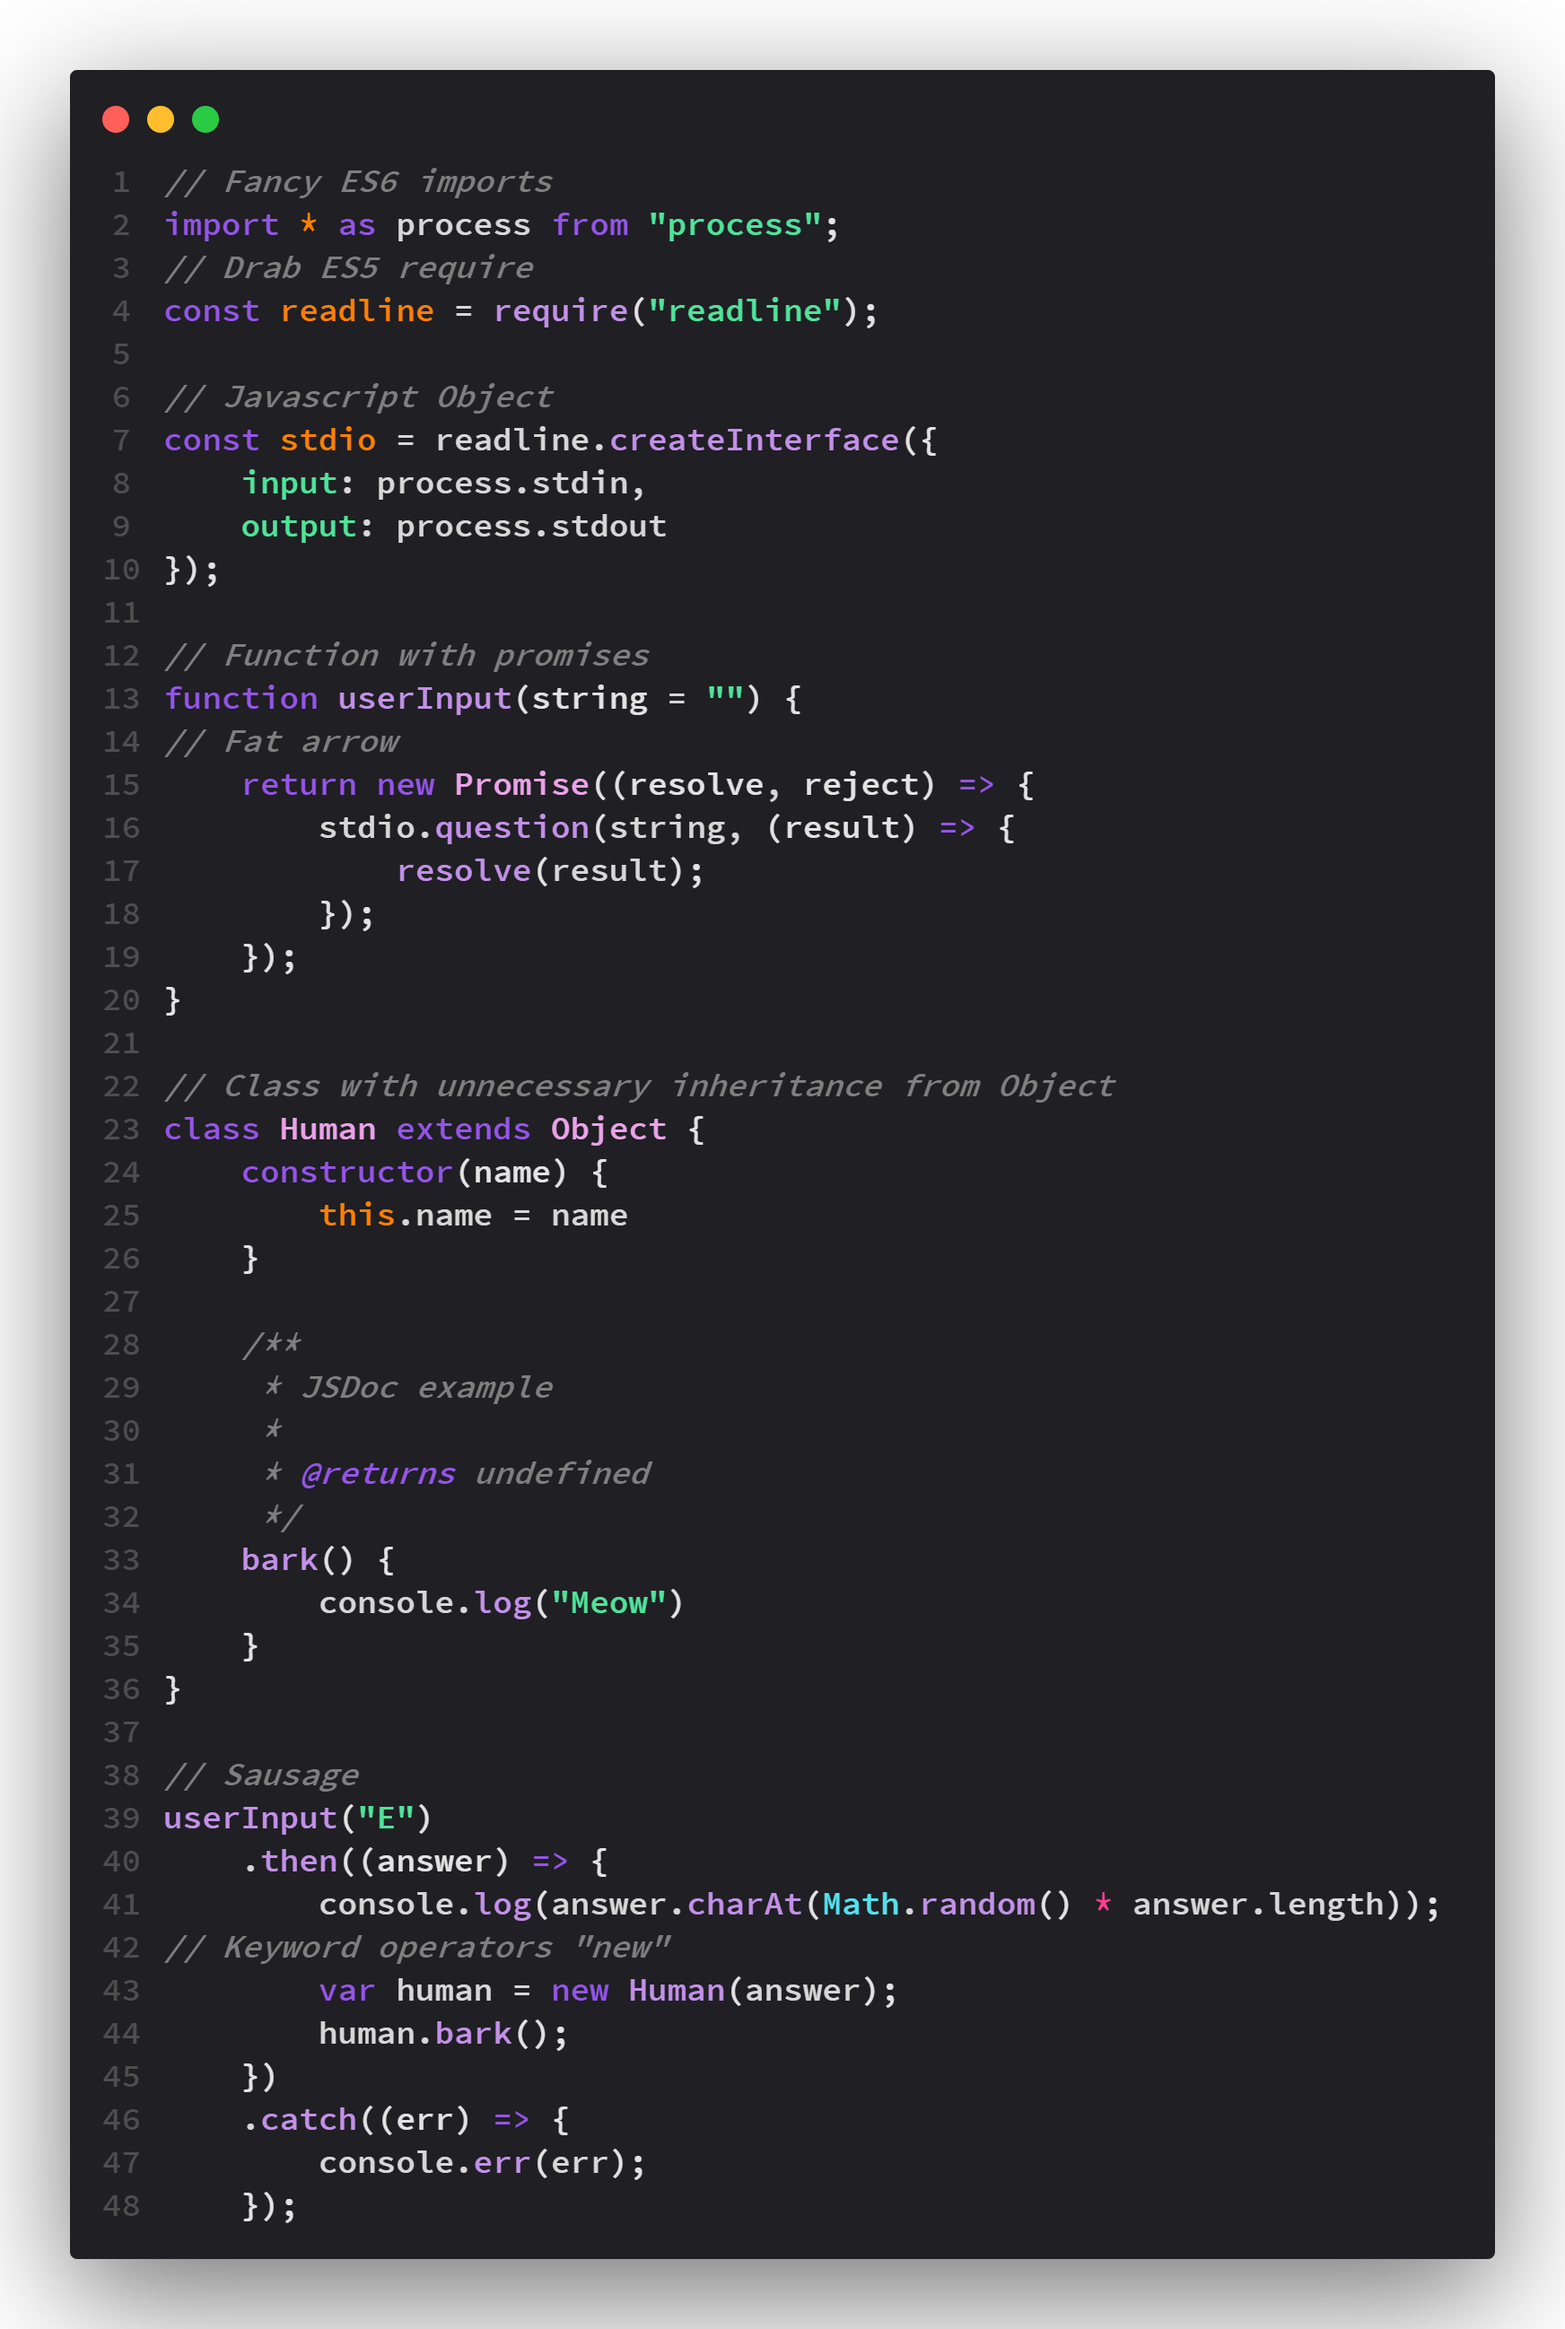
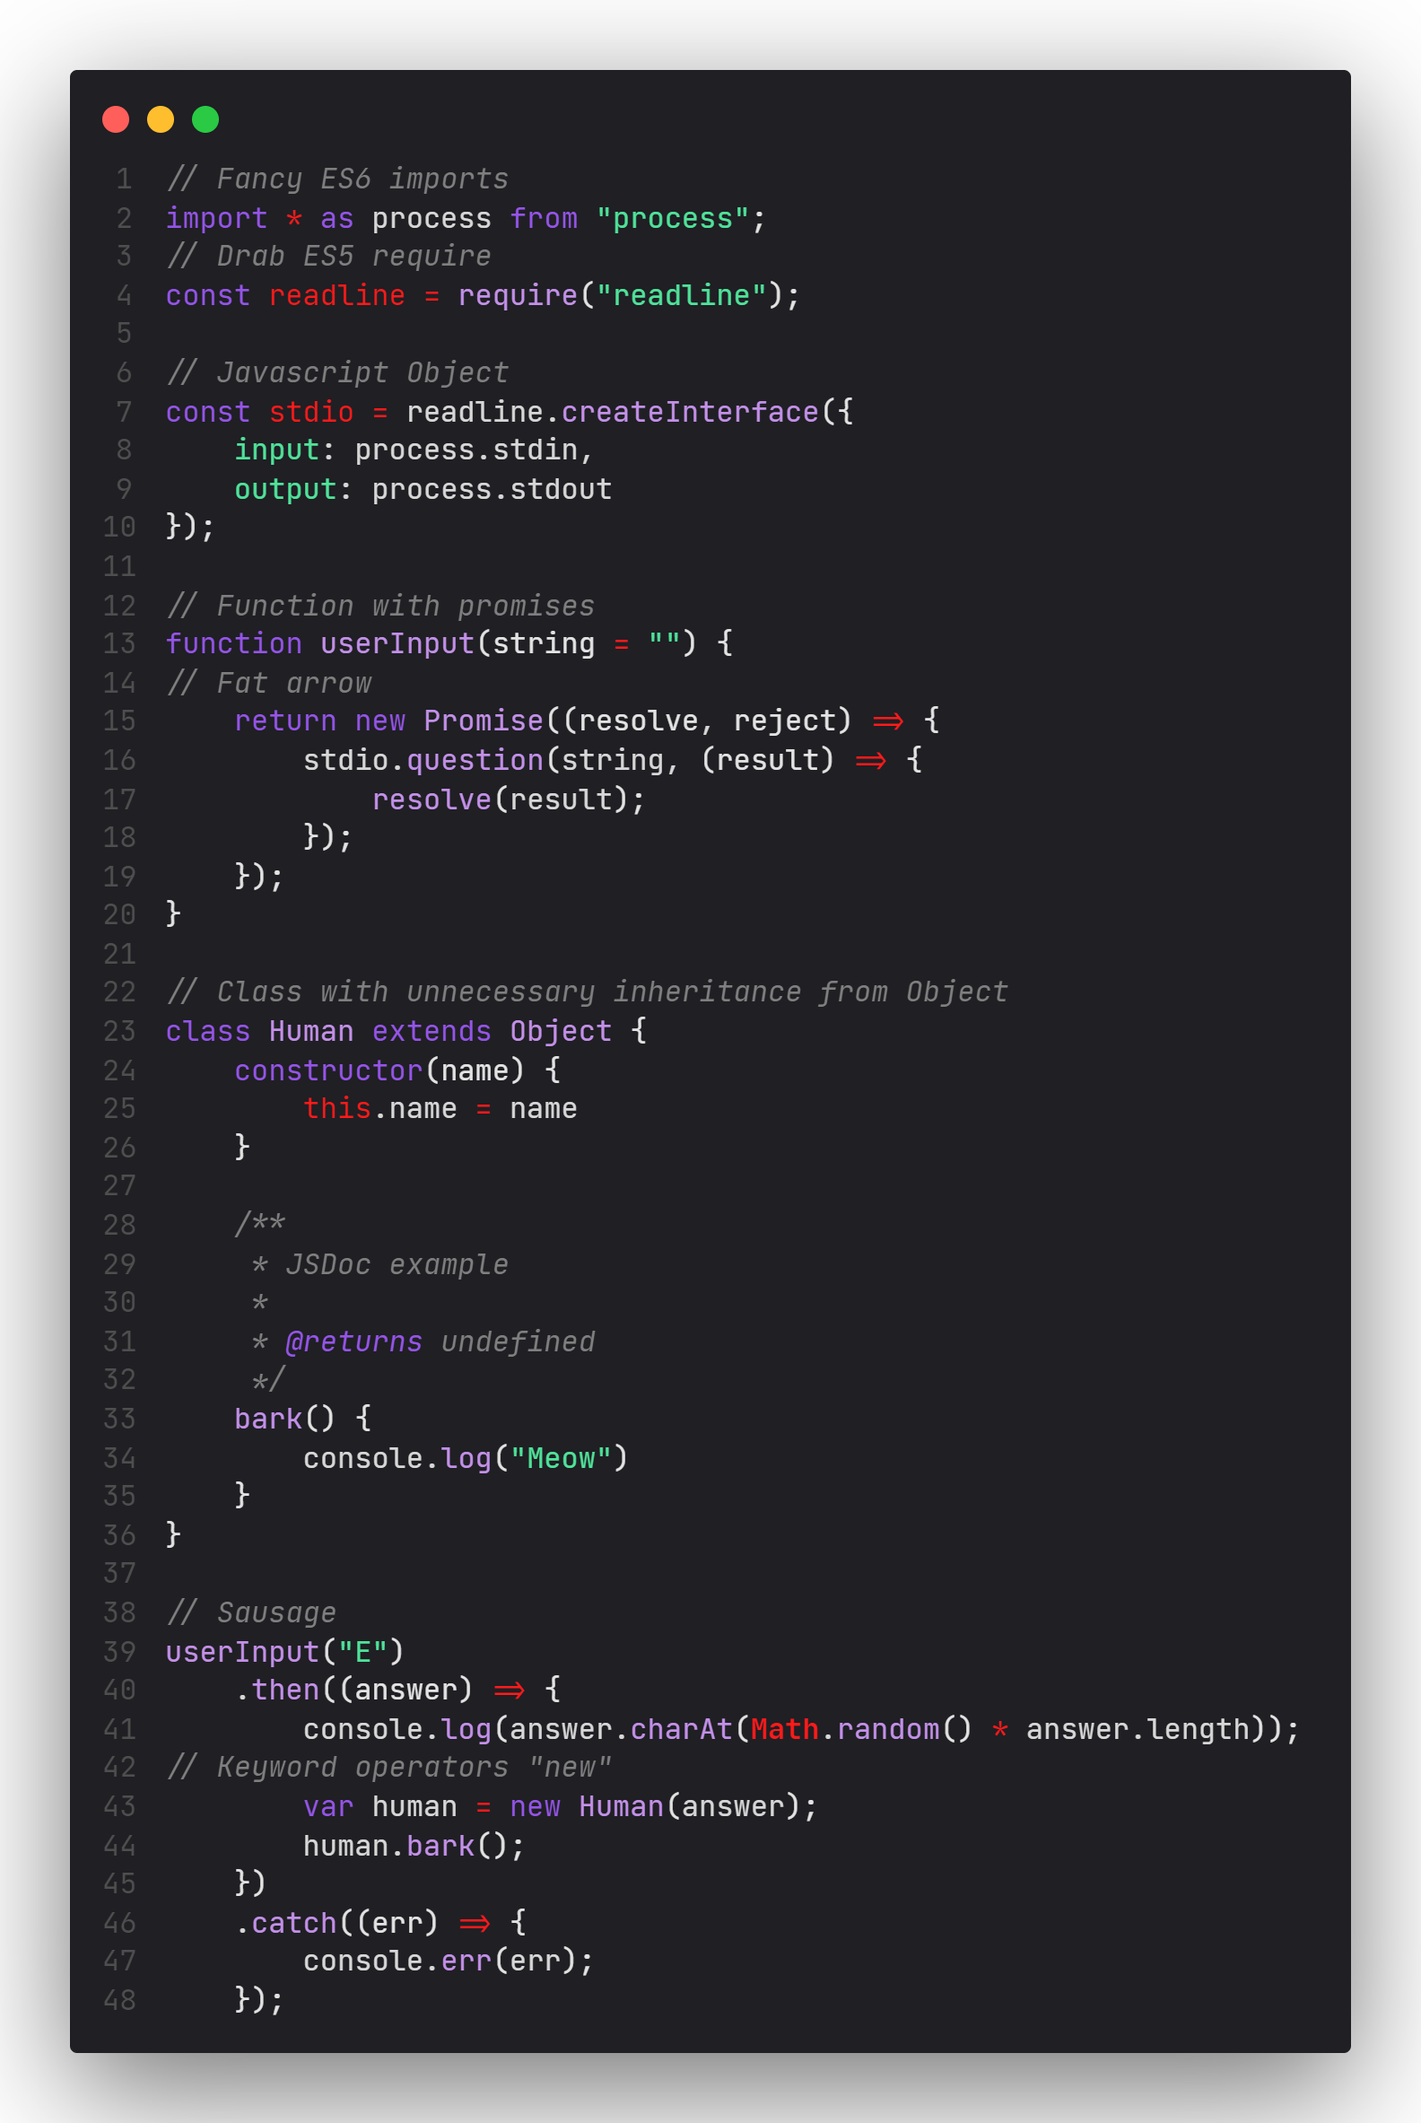
v0.1.5: Change colors

diff --git a/CHANGELOG.md b/CHANGELOG.md
@@ -99,3 +99,17 @@ Add "punctuation.definition.metadata" to "Markdown Delimiter".
 
 Remove sample code from tracking because with them Github mistakenly
 counts them as part of the repo.
+
+Change the colour of constants and builtins from orange to red.
+
+Merge Operator 1 and Trivial Operators and remove
+keyword.operator.assignment from "Punctuation".
+
+Change the colour of operators to red.
+
+Classes and types are now lavender, like functions.
+
+Ruby variables are now silver like in other languages because they don't
+deserve to be special.
+
+Arrows for return values are now grouped under "Function, Method".
